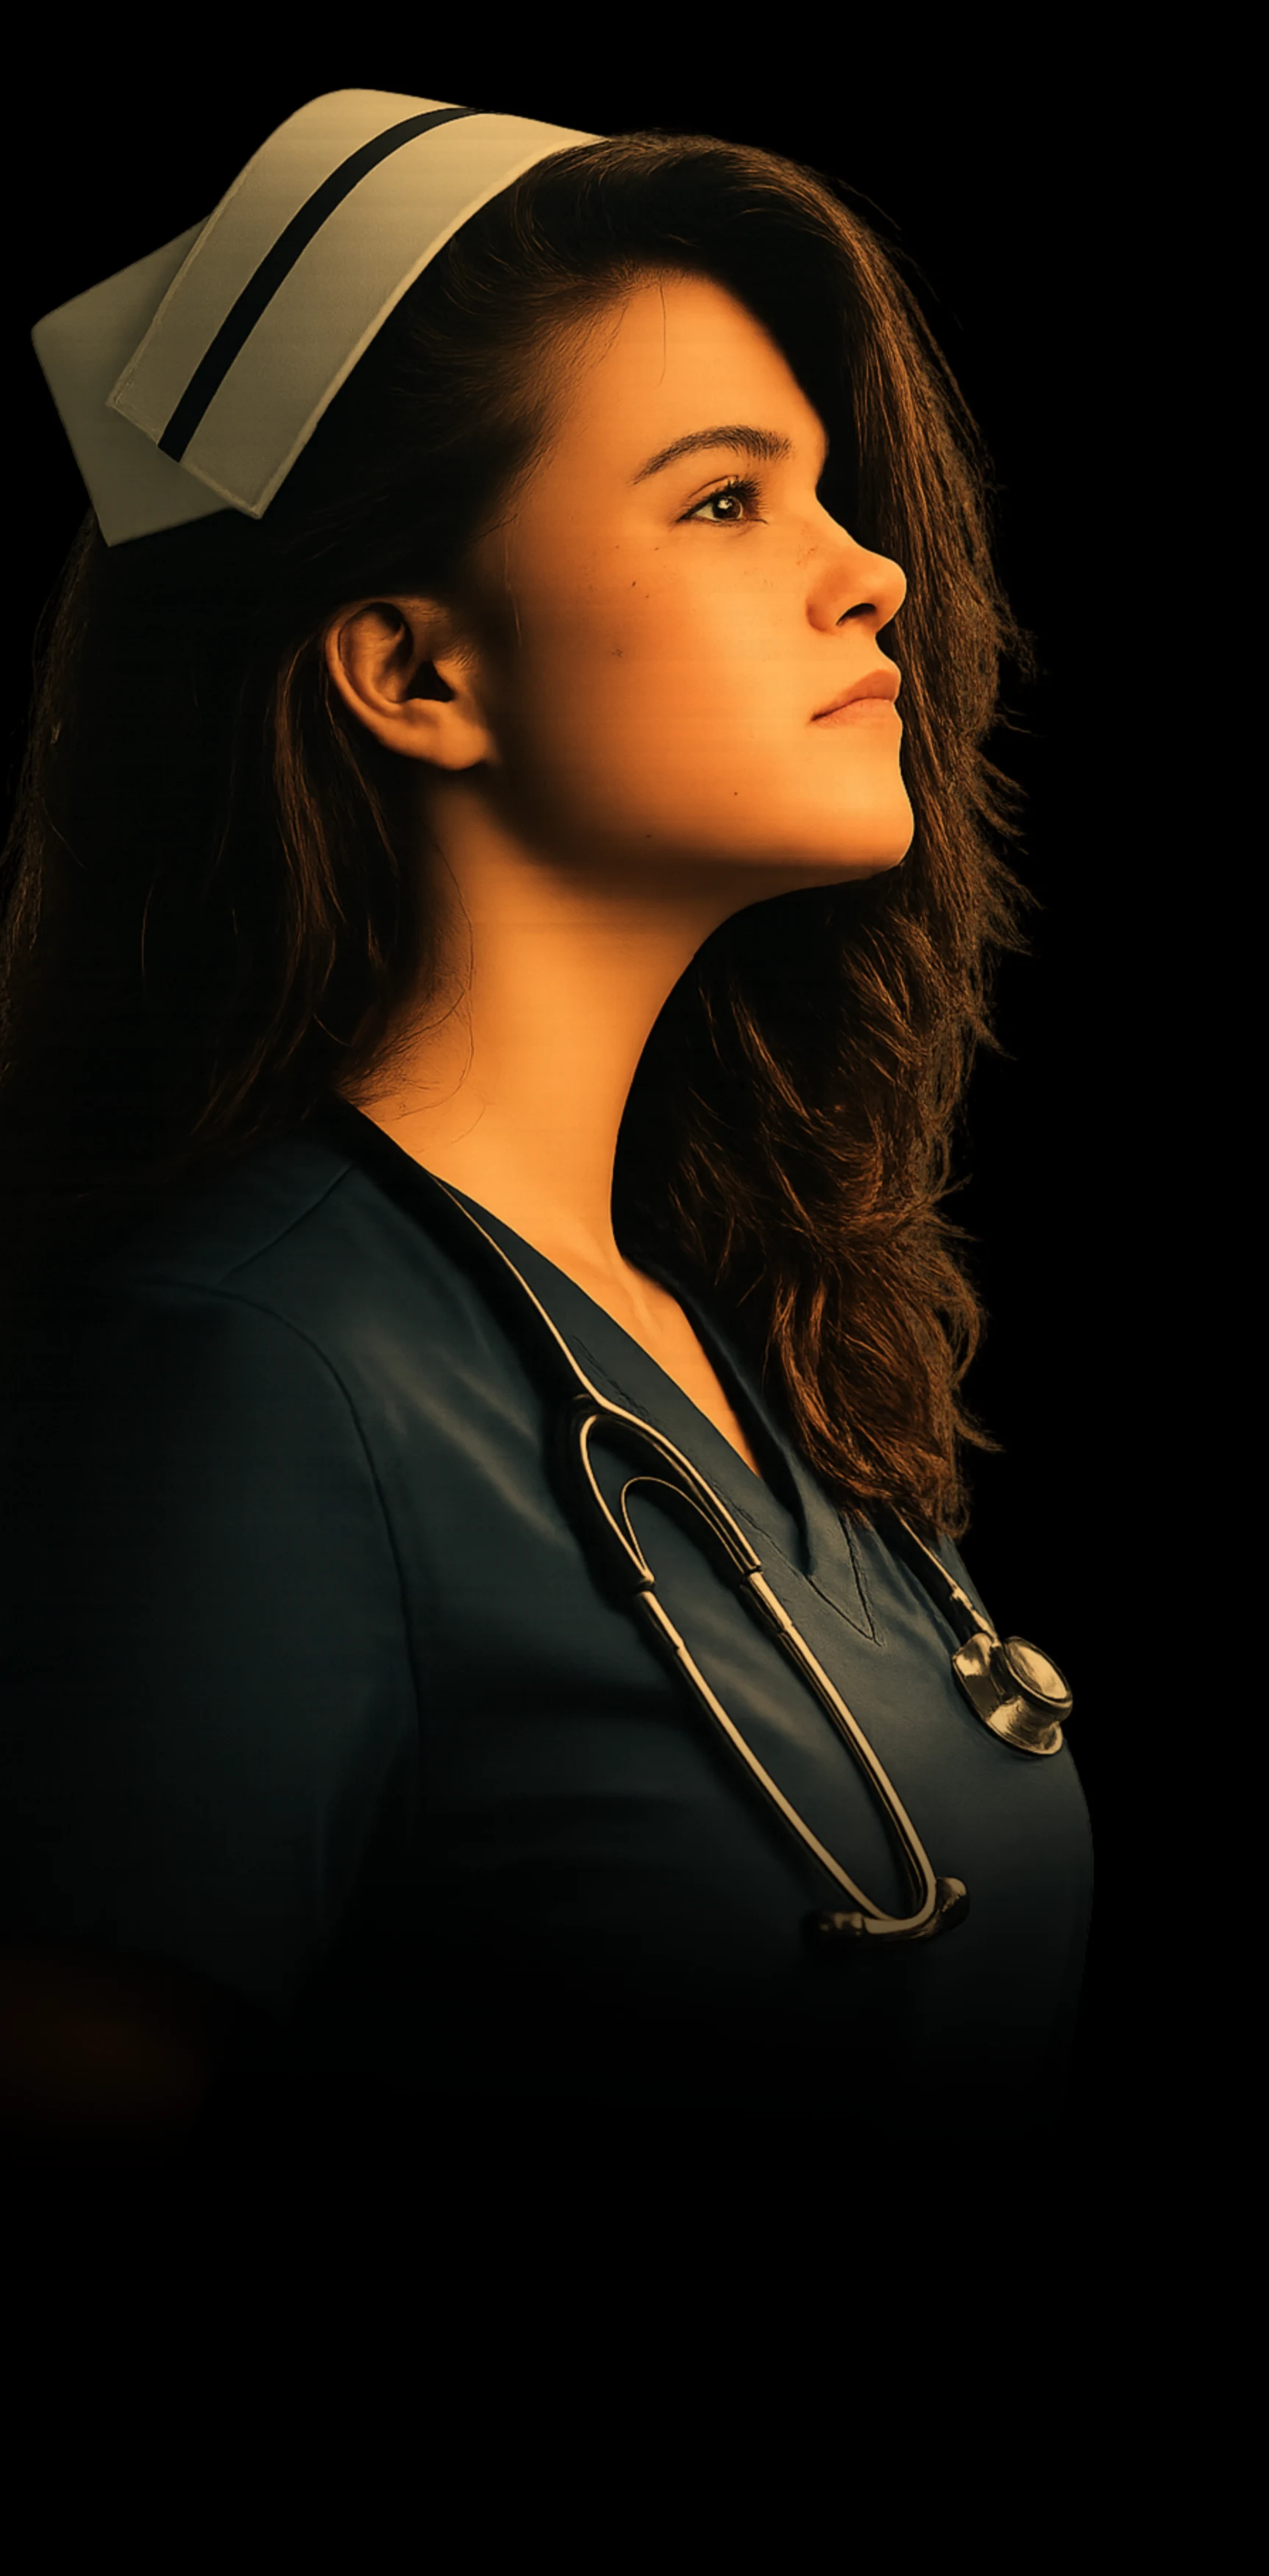
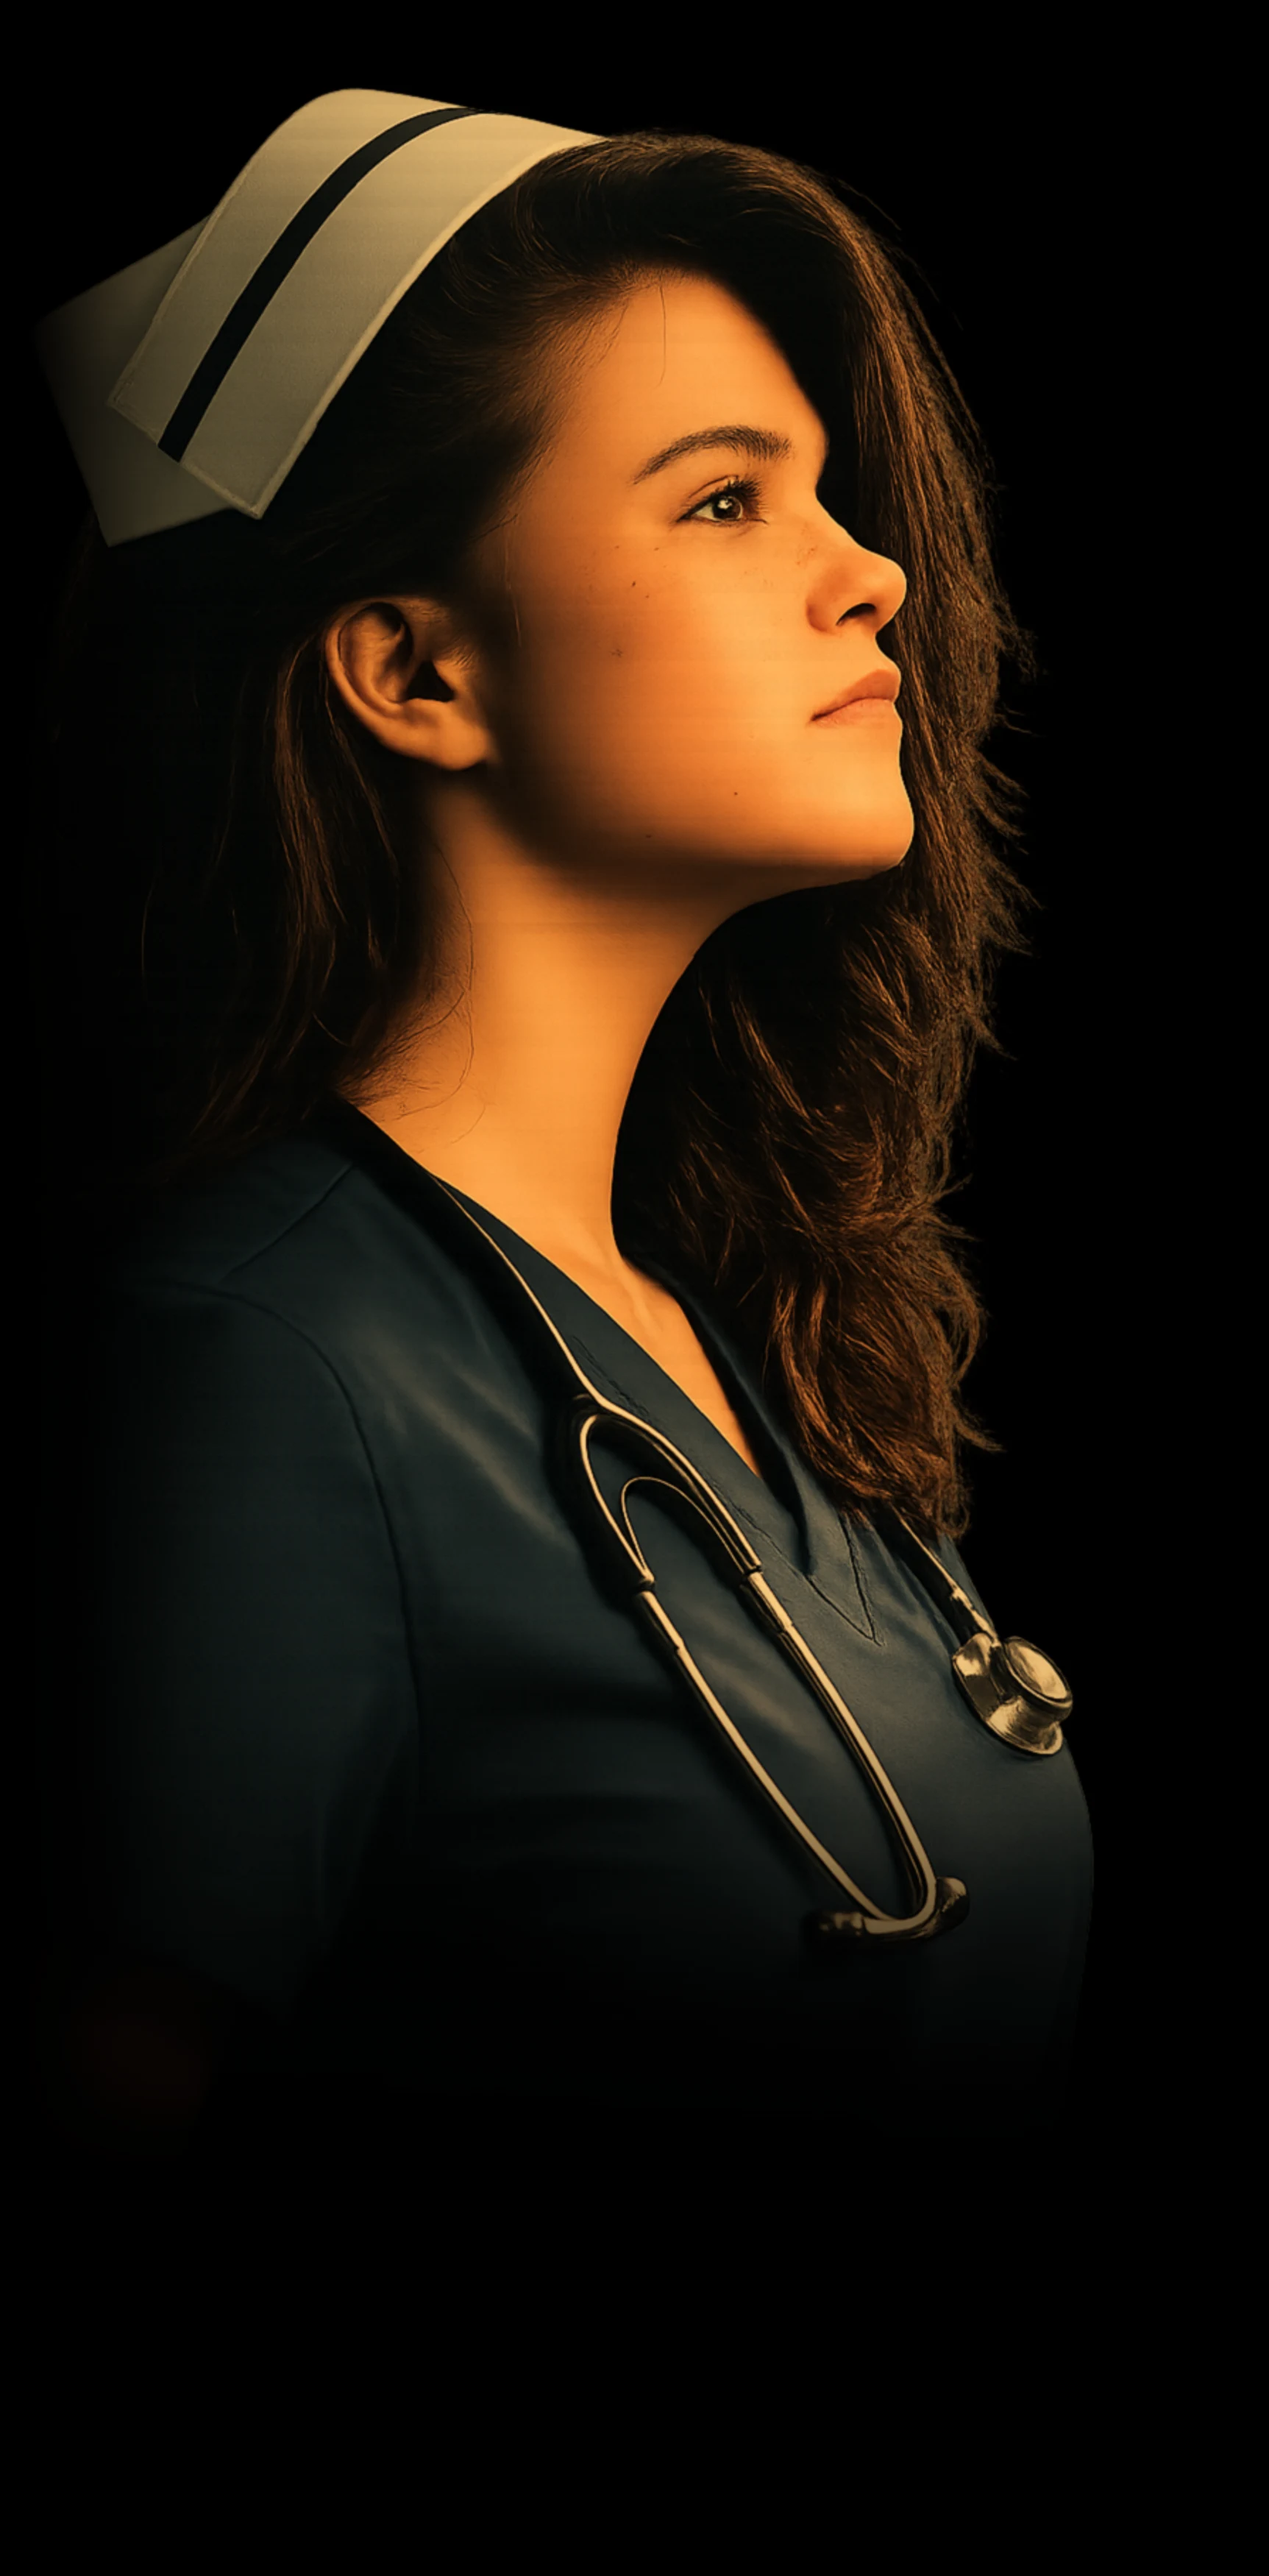
hero: make the morph a dissolve, and fade the cut edge
Two faults, and the first one explains the second.

THE WIPE WAS A WORKAROUND. I used a travelling mask edge because screen is
additive: two separately-screened figures crossfading would each add their
own light to the hero, so any pixel carrying both came out brighter than
either alone. The mask avoided that by never letting both exist at once —
but it also produced a moving edge, which is not what the reference does.
The reference dissolves uniformly.

The actual fix is to move the blend up rather than avoid the overlap. Both
frames now live inside .hero__figure and the SCREEN sits on that wrapper.
Inside it the two pictures composite with each other normally, so the
crossfade is an ordinary opacity blend with no doubling anywhere, and only
the finished composite is screened onto the hero. One blend against the
backdrop instead of two. Registration is what makes it read as one face
changing rather than two faces overlapping.

THE HARD VERTICAL LINE. Registration puts the nurse frame at x = -326, so
the canvas cuts straight through her arm and the cut ran as a straight edge
down the full height of the figure. The original never showed this because
its subject sits inside the frame with black either side. The asset now
carries a 300px smoothstep on the leading edge as well as the bottom: wide
enough that the eye never finds an edge, narrow enough not to eat into the
lit shoulder.

Both frames fade on the same scroll(root block) timeline over the first
[…]

Changed region(s): [[0.0307, 0.0934, 0.1229, 0.218], [0.0, 0.3114, 0.0307, 0.4049]]

diff --git a/landing/public/assets/hero/CREDITS.md b/landing/public/assets/hero/CREDITS.md
@@ -92,9 +92,14 @@ Built by `scratchpad/build3.mjs`, in this order and for these reasons:
    against R puts both frames on the same colour axis and leaves highlights
    alone. Measured lit means: original R228.8 G148.1 B75.2, nurse R160.2 G124.8
    B95.9.
-5. **Smoothstep fade from 62% down.** The source ends at 85% of the canvas;
-   without it the morph reveals a hard horizontal cut across her torso. The
-   original needs no equivalent because its torso is black all the way down.
+5. **Smoothstep fades on the bottom AND the leading edge.** The source ends at
+   85% of the canvas, so without a bottom fade the morph reveals a hard
+   horizontal cut across her torso. The left fade matters more: registration
+   puts the frame at x = -326, so the canvas cuts straight through her arm and
+   leaves a hard vertical line running the full height of the figure. 300px is
+   wide enough that the eye never finds an edge and narrow enough not to eat
+   into the lit shoulder. The original needs neither, because its subject sits
+   inside the frame with black either side.
 
 One bug worth remembering: compositing an RGBA crop onto an RGB canvas promotes
 the raw buffer to FOUR channels. The fade loop indexed in threes and scrambled
